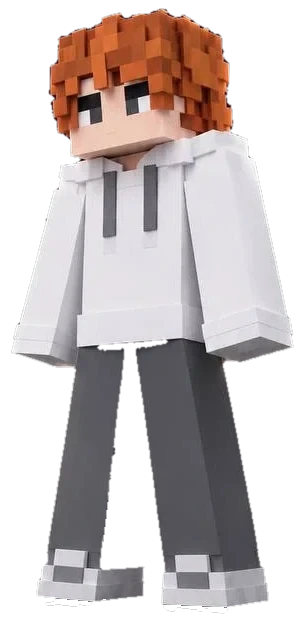
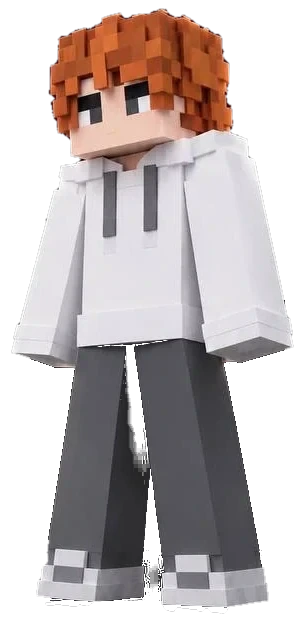
Ground the /about character and float the blocks on phones
- Night cut-out: restore the inner side of the left leg and the left shoe's
  inner edge, erased along with the patch between the legs.
- Shadows: a soft pool spreading back from his feet plus a tight rim under
  each shoe at its own sole height, instead of a blob below the soles.
- Day cut-out was shifted down 3.3% instead of up, sinking him into the
  hero's fade; raise it so both themes stand on the same line.
- Blocks drift on a tilted loop with a slight overshoot.
- Phone: each block painted in the picture is covered with an inpainted
  wall patch and floats as a masked copy of the picture on top.

diff --git a/app/globals.css b/app/globals.css
@@ -1794,6 +1794,7 @@ a.social-link-row:hover {
    (.hero-figure-phone) takes the same box and the same cover fit, in front
    of the copy. */
 .scene-full,
+.scene-blocks-phone,
 .hero-figure-phone {
   position: absolute;
   inset: 0 0 6%;
@@ -1872,6 +1873,7 @@ a.social-link-row:hover {
   }
 
   .scene-full,
+  .scene-blocks-phone,
   .hero-figure-phone {
     display: none;
   }
@@ -2092,29 +2094,70 @@ a.social-link-row:hover {
   }
 }
 
-/* Each block drifts on a small loop (up, across, back down) and rocks a few
-   degrees as it goes; --sway sets which way it leans. */
+/* Each block drifts on a tilted loop: it rises out to one side, crests a
+   little past the middle, comes back down on the other side and settles
+   with a slight overshoot, rocking a few degrees as it goes. --sway sets
+   which way it leans and loops, --amp how far it travels. */
 @keyframes block-float {
   0% {
     translate: 0 0;
     rotate: 0deg;
   }
-  25% {
-    translate: calc(4px * var(--sway, 1)) -12px;
-    rotate: calc(3deg * var(--sway, 1));
+  22% {
+    translate: calc(7px * var(--sway, 1) * var(--amp, 1)) calc(-9px * var(--amp, 1));
+    rotate: calc(2.5deg * var(--sway, 1));
   }
-  50% {
-    translate: 0 -22px;
-    rotate: calc(5deg * var(--sway, 1));
+  48% {
+    translate: calc(3px * var(--sway, 1) * var(--amp, 1)) calc(-24px * var(--amp, 1));
+    rotate: calc(5.5deg * var(--sway, 1));
   }
-  75% {
-    translate: calc(-4px * var(--sway, 1)) -10px;
-    rotate: calc(2deg * var(--sway, 1));
+  72% {
+    translate: calc(-6px * var(--sway, 1) * var(--amp, 1)) calc(-14px * var(--amp, 1));
+    rotate: calc(1.5deg * var(--sway, 1));
+  }
+  88% {
+    translate: calc(-3px * var(--sway, 1) * var(--amp, 1)) calc(-2px * var(--amp, 1));
+    rotate: calc(-1deg * var(--sway, 1));
   }
   100% {
     translate: 0 0;
     rotate: 0deg;
   }
+}
+
+/* Phone: the same three blocks, floating in the picture itself. Each is
+   lifted out of the picture (the picture, masked to the block) over a patch
+   of wall that hides where it was painted, and drifts on the same loop.
+   SVG user units are picture pixels, a little larger than CSS ones here, so
+   the loop is scaled up to travel about as far on screen. */
+.scene-blocks-phone {
+  z-index: 0;
+  pointer-events: none;
+}
+
+.phone-block {
+  /* Turns about the block's own middle (set inline, in picture pixels). */
+  transform-box: view-box;
+  animation: block-float var(--dur) ease-in-out infinite;
+  --amp: 1.3;
+}
+
+.phone-block-1 {
+  --dur: 6.5s;
+  --sway: 1;
+  animation-delay: -5s;
+}
+
+.phone-block-2 {
+  --dur: 8s;
+  --sway: -1;
+  animation-delay: -3s;
+}
+
+.phone-block-3 {
+  --dur: 7.2s;
+  --sway: -0.8;
+  animation-delay: -1.5s;
 }
 
 /* ── The copy ──────────────────────────────────────────────────────────── */
@@ -2248,15 +2291,18 @@ a.social-link-row:hover {
     height: 100%;
   }
 
-  /* The day cut-out's soles sit lower in its box than the night one's;
-     drop it so both stand on the same line. */
+  /* The day cut-out's soles sit lower in its box (about 2% up) than the
+     night one's (5.3%); raise it so both stand on the same line. */
   .hero-figure > .scene-day {
-    translate: 0 3.3%;
+    translate: 0 -3.3%;
   }
 
-  /* Contact shadows on the floor, centred on his soles (5.3% up from the
-     box's foot): a wide soft one under both shoes and a tight dark one right
-     where they touch, so he stands on the floor rather than above it. */
+  /* Contact shadows, behind him. In the night cut-out his far (left) shoe
+     ends 6.2% up the box, over x 12–52%, and his near (right) one 5.2% up,
+     over x 53–88%. A soft pool spreads back from the soles (up the screen,
+     into the floor behind him) and barely in front of them; under each shoe
+     a tight dark ellipse is centred on its sole, so only its lower half
+     shows, as a dark rim right where the shoe meets the floor. */
   .hero-figure::before,
   .hero-figure::after {
     content: "";
@@ -2265,27 +2311,32 @@ a.social-link-row:hover {
   }
 
   .hero-figure::before {
-    left: 4%;
-    right: 0;
-    bottom: 2.3%;
+    left: 2%;
+    right: 2%;
+    bottom: 4.4%;
     height: 6%;
-    background: radial-gradient(closest-side, rgb(0 0 0 / 0.62), rgb(0 0 0 / 0.28) 55%, transparent);
+    background: radial-gradient(closest-side, rgb(0 0 0 / 0.6), rgb(0 0 0 / 0.25) 60%, transparent);
   }
 
   .hero-figure::after {
-    left: 12%;
-    right: 8%;
-    bottom: 4.2%;
-    height: 2.4%;
-    background: radial-gradient(closest-side, rgb(0 0 0 / 0.8), rgb(0 0 0 / 0.35) 60%, transparent);
+    left: 0;
+    right: 0;
+    bottom: 4.3%;
+    height: 3.1%;
+    background:
+      radial-gradient(closest-side, rgb(0 0 0 / 0.9), rgb(0 0 0 / 0.45) 55%, transparent) left 8% top 0 / 48% 70% no-repeat,
+      radial-gradient(closest-side, rgb(0 0 0 / 0.9), rgb(0 0 0 / 0.45) 55%, transparent) right 8% bottom 0 / 44% 70% no-repeat;
   }
 
+  /* By day his cut-out brings its own soft shadow, so both are fainter. */
   :root.light .hero-figure::before {
     background: radial-gradient(closest-side, rgb(0 0 0 / 0.2), rgb(0 0 0 / 0.07) 60%, transparent);
   }
 
   :root.light .hero-figure::after {
-    background: radial-gradient(closest-side, rgb(0 0 0 / 0.3), transparent);
+    background:
+      radial-gradient(closest-side, rgb(0 0 0 / 0.3), transparent) left 8% top 0 / 48% 70% no-repeat,
+      radial-gradient(closest-side, rgb(0 0 0 / 0.3), transparent) right 8% bottom 0 / 44% 70% no-repeat;
   }
 }
 

diff --git a/app/home/components/HeroSection.jsx b/app/home/components/HeroSection.jsx
@@ -22,12 +22,73 @@ function HeroScene() {
     <div className="hero-scene" style={pictures} aria-hidden="true">
       <img className="scene-full scene-night" src={publicAsset("/backgrounds/hero-night.webp")} alt="" decoding="async" />
       <img className="scene-full scene-day" src={publicAsset("/backgrounds/hero-day.webp")} alt="" decoding="async" />
+      <PhoneBlocks theme="night" width={586} />
+      <PhoneBlocks theme="day" width={585} />
       <div className="scene-floor" />
       <div className="scene-piece scene-cubes-left" />
       <div className="scene-piece scene-cubes-right" />
       <div className="scene-piece scene-stairs" />
       <div className="scene-piece scene-box-right" />
     </div>
+  );
+}
+
+// Where each floating block is painted in the phone pictures (top-left
+// corner, picture pixels; hero-block-N.webp is its 1:1 cut-out), and its size.
+const PHONE_BLOCKS = {
+  night: [[363, 144], [482, 490], [122, 739]],
+  day: [[362, 140], [480, 494], [122, 748]],
+};
+const BLOCK_SIZES = [[116, 128], [96, 110], [94, 108]];
+// hero-patch-N-<theme>.webp is the wall where block N was, filled in from
+// around it, cut this many pixels wider than the block on every side.
+const PATCH_MARGIN = 18;
+
+// Phone: the picture's three blocks set floating. Laid over the picture with
+// its own cover fit (the SVG's "slice"); each block's spot is papered over
+// with its wall patch, and the block itself — the picture, masked to the
+// block's cut-out — drifts above it.
+function PhoneBlocks({ theme, width }) {
+  const picture = publicAsset(`/backgrounds/hero-${theme}.webp`);
+  return (
+    <svg
+      className={`scene-blocks-phone scene-${theme}`}
+      viewBox={`0 0 ${width} 1280`}
+      preserveAspectRatio="xMidYMax slice"
+    >
+      <defs>
+        {PHONE_BLOCKS[theme].map(([x, y], i) => (
+          <mask key={i} id={`hero-block-${theme}-${i + 1}`} style={{ maskType: "alpha" }}>
+            <image
+              href={publicAsset(`/backgrounds/hero-block-${i + 1}.webp`)}
+              x={x}
+              y={y}
+              width={BLOCK_SIZES[i][0]}
+              height={BLOCK_SIZES[i][1]}
+            />
+          </mask>
+        ))}
+      </defs>
+      {PHONE_BLOCKS[theme].map(([x, y], i) => (
+        <image
+          key={i}
+          href={publicAsset(`/backgrounds/hero-patch-${i + 1}-${theme}.webp`)}
+          x={x - PATCH_MARGIN}
+          y={y - PATCH_MARGIN}
+          width={BLOCK_SIZES[i][0] + 2 * PATCH_MARGIN}
+          height={BLOCK_SIZES[i][1] + 2 * PATCH_MARGIN}
+        />
+      ))}
+      {PHONE_BLOCKS[theme].map(([x, y], i) => (
+        <g
+          key={i}
+          className={`phone-block phone-block-${i + 1}`}
+          style={{ transformOrigin: `${x + BLOCK_SIZES[i][0] / 2}px ${y + BLOCK_SIZES[i][1] / 2}px` }}
+        >
+          <image href={picture} width={width} height="1280" mask={`url(#hero-block-${theme}-${i + 1})`} />
+        </g>
+      ))}
+    </svg>
   );
 }
 
